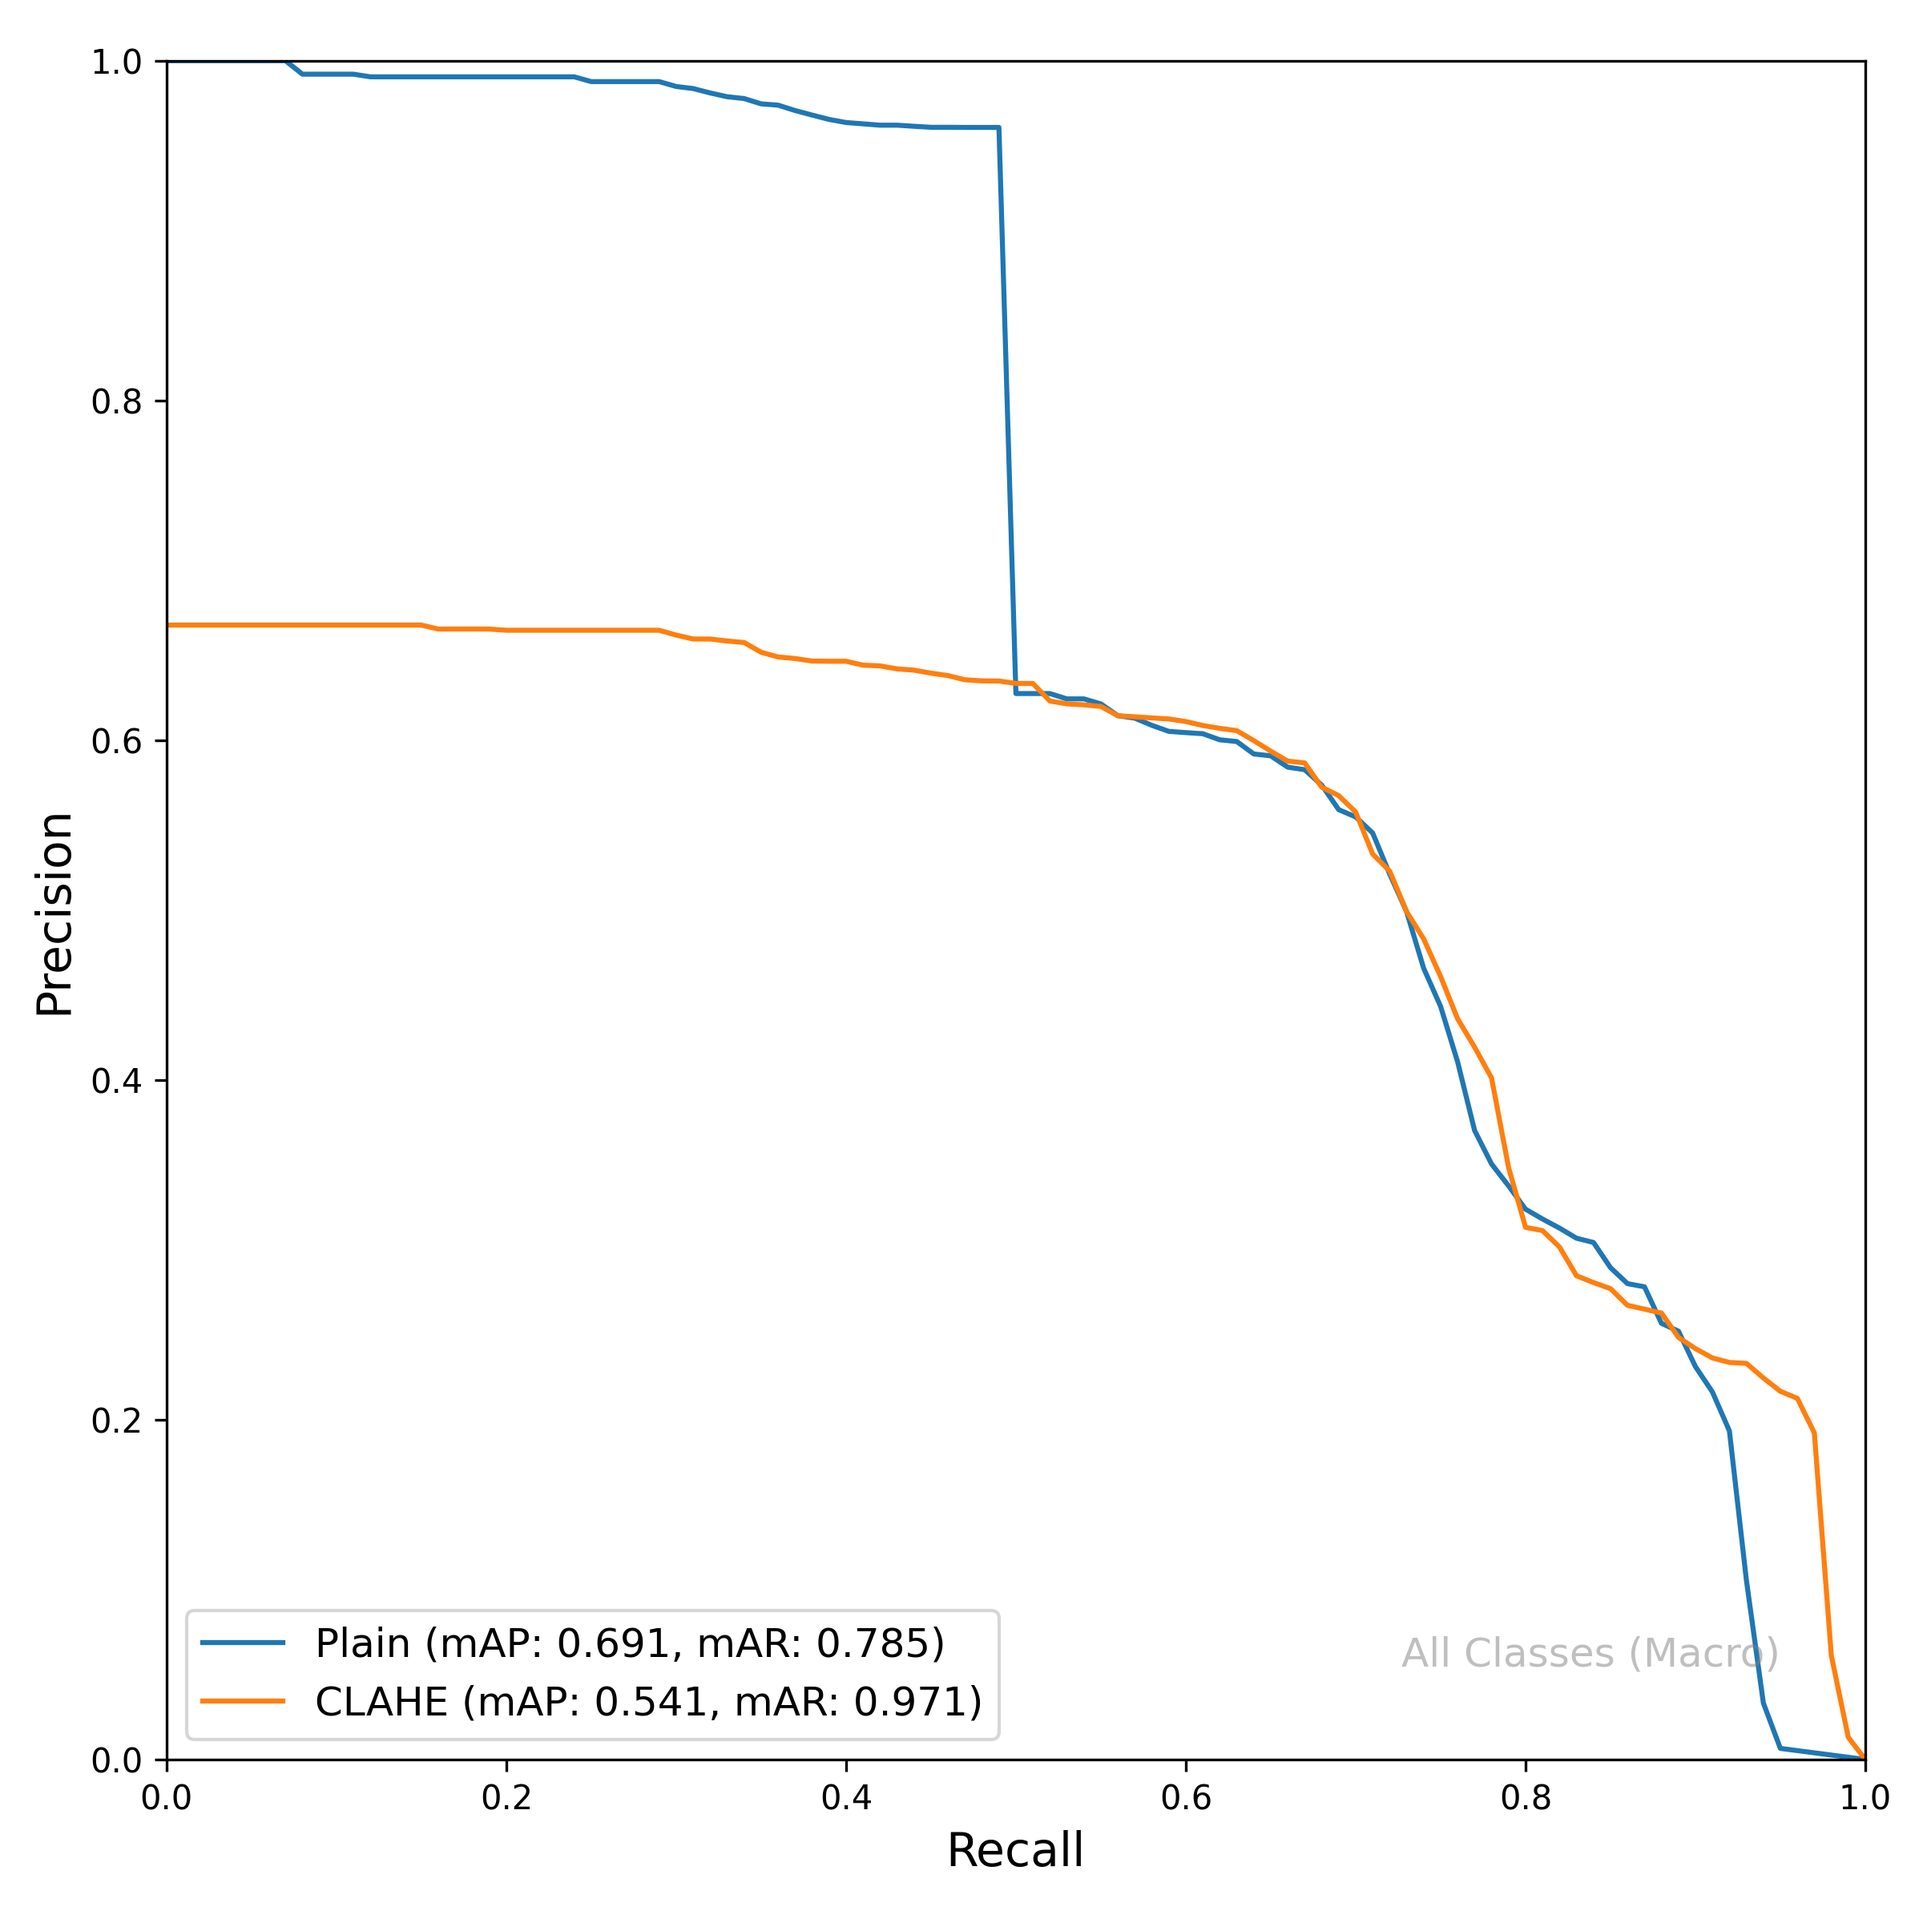
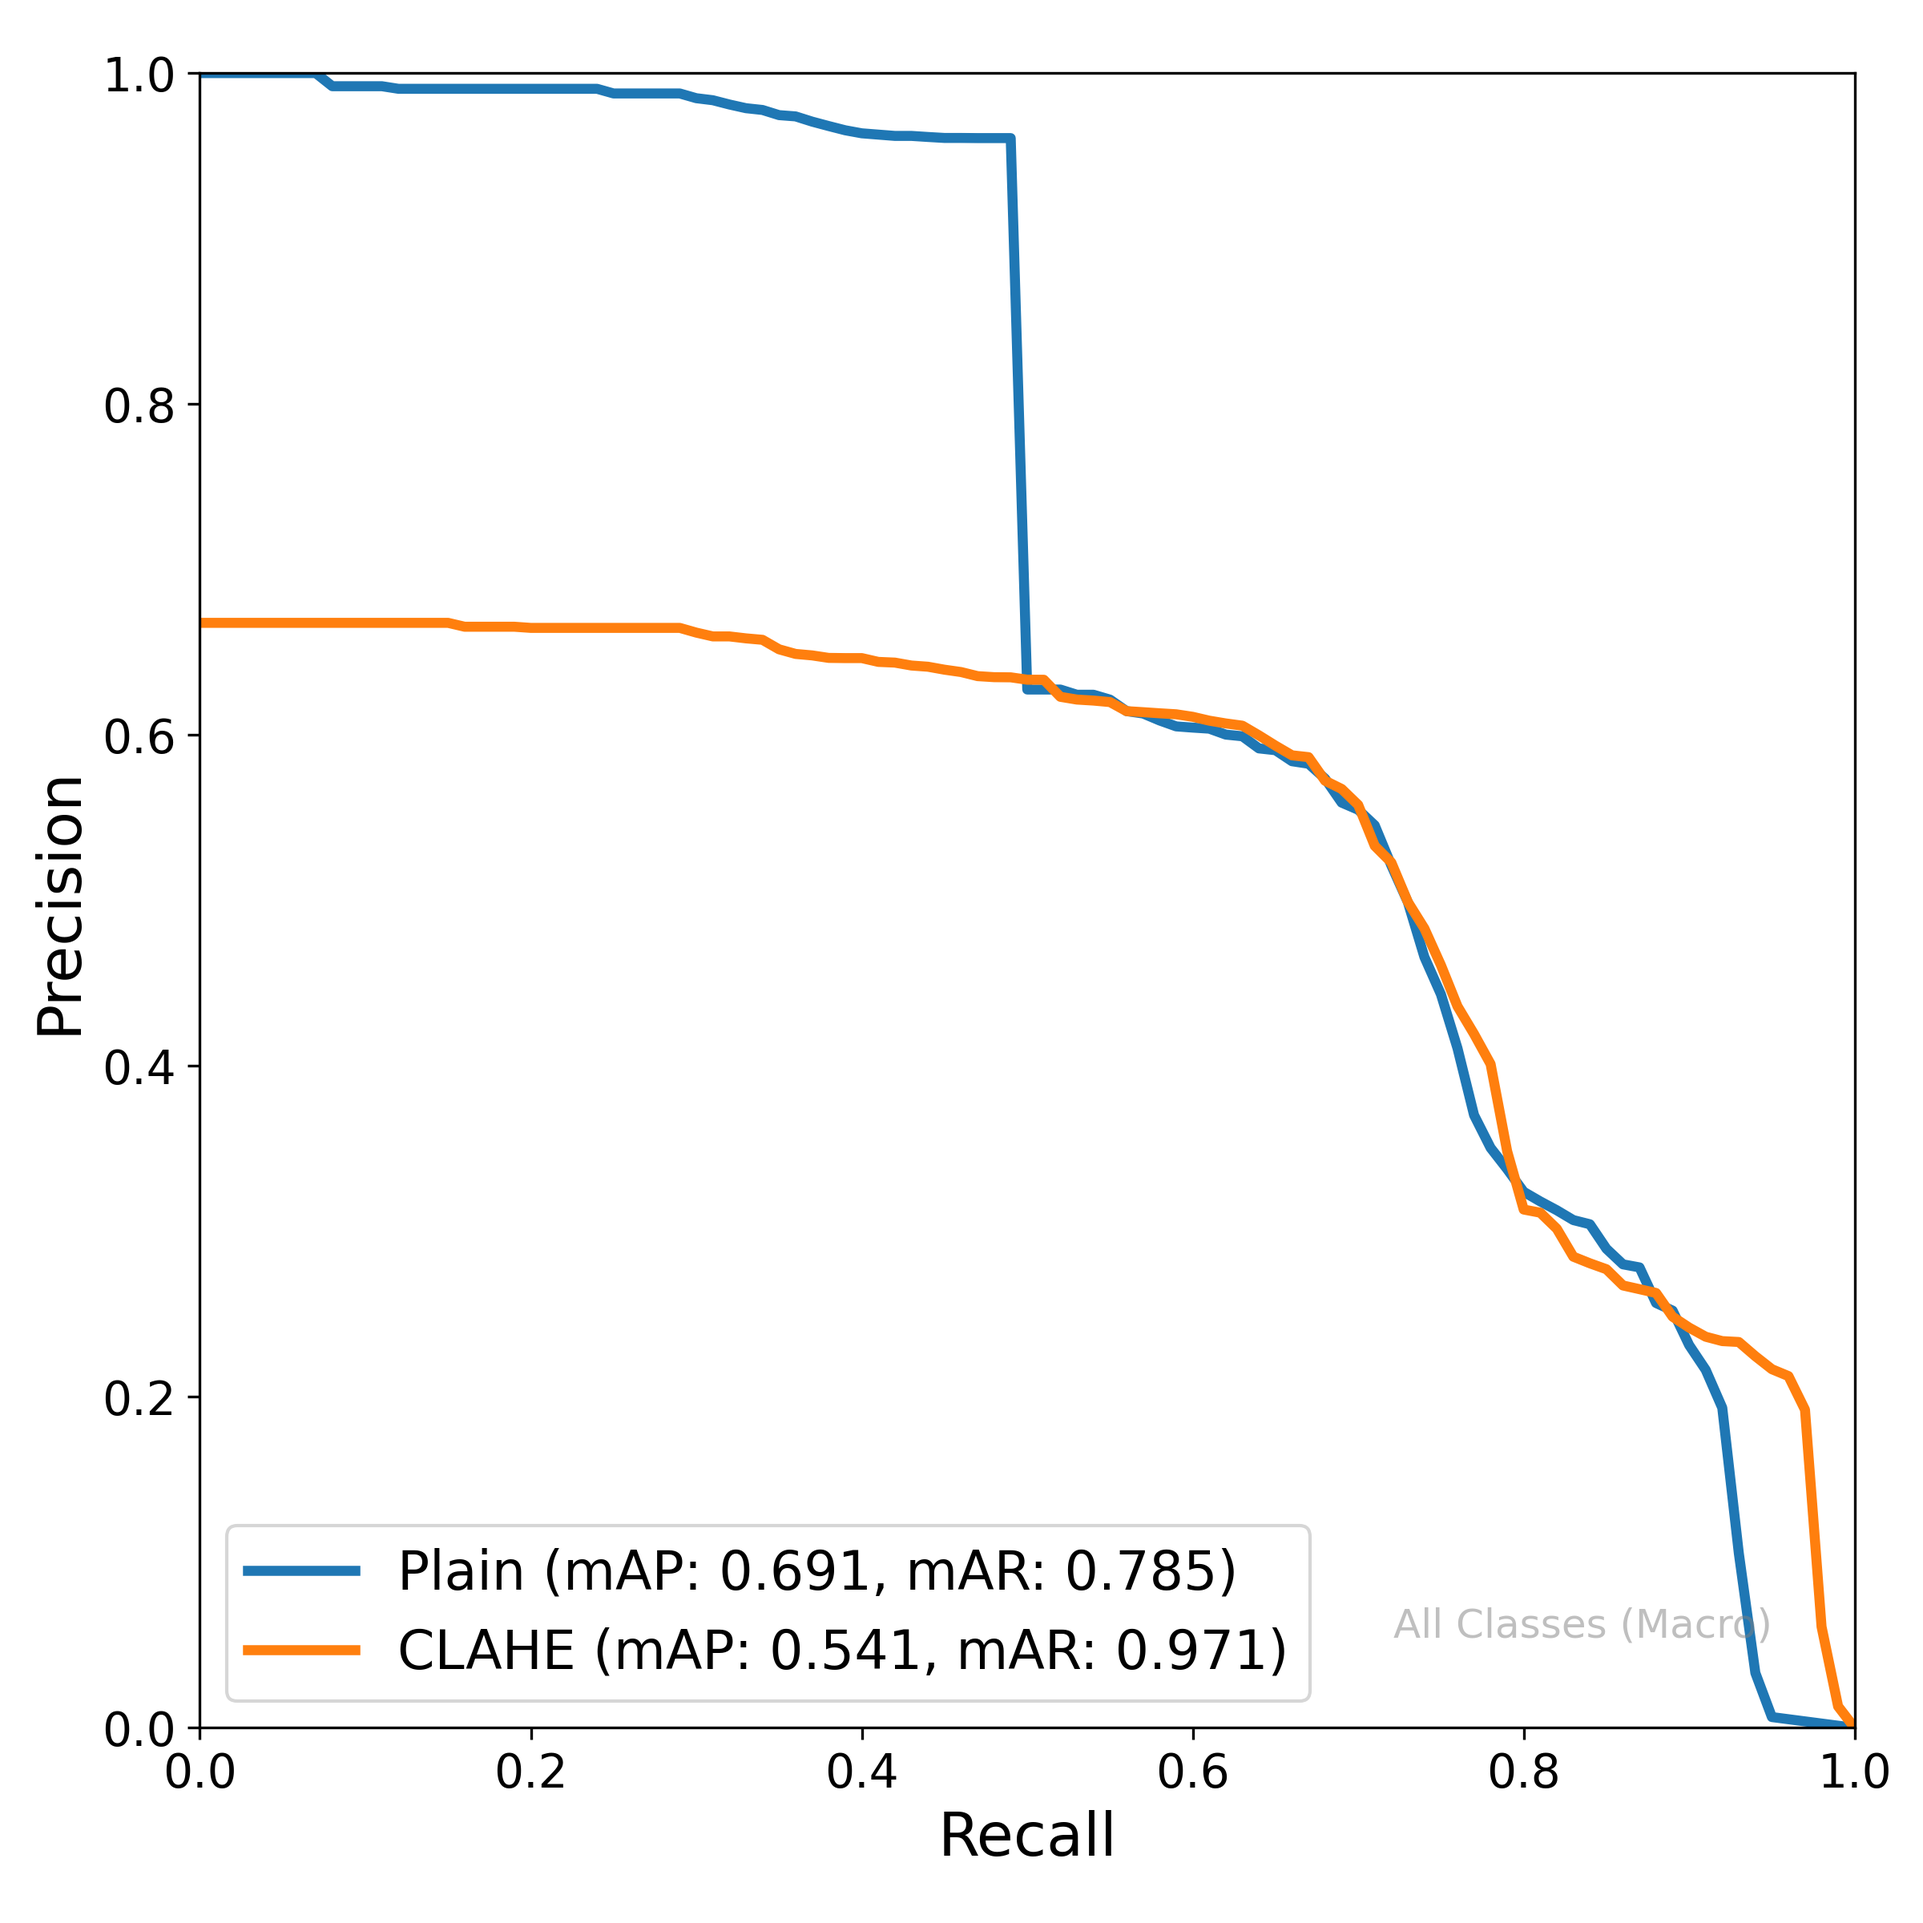
style: increase line width, font sizes, and tick labels in precision-recall plots

diff --git a/detection/evaluation/reporting/plot_preprocessing.py b/detection/evaluation/reporting/plot_preprocessing.py
@@ -78,7 +78,7 @@ def plot_pr_curves():
             label = f"{label_name} (mAP: {mAP:.3f}, mAR: {mar:.3f})"
             color = "#1f77b4" if proc == "plain" else "#ff7f0e"
 
-            ax.plot(rec, prec, label=label, color=color, linewidth=1.5)
+            ax.plot(rec, prec, label=label, color=color, linewidth=3)
 
         if not has_data:
             plt.close()
@@ -89,9 +89,10 @@ def plot_pr_curves():
         #     fontsize=16,
         #     fontweight="bold",
         # )
-        ax.set_xlabel("Recall", fontsize=14)
-        ax.set_ylabel("Precision", fontsize=14)
-        ax.legend(fontsize=12, loc="lower left")
+        ax.set_xlabel("Recall", fontsize=18)
+        ax.set_ylabel("Precision", fontsize=18)
+        ax.tick_params(axis="both", which="major", labelsize=14)
+        ax.legend(fontsize=16, loc="lower left")
         ax.grid(False)
         ax.set_ylim([0.0, 1.0])
         ax.set_xlim([0.0, 1.0])
